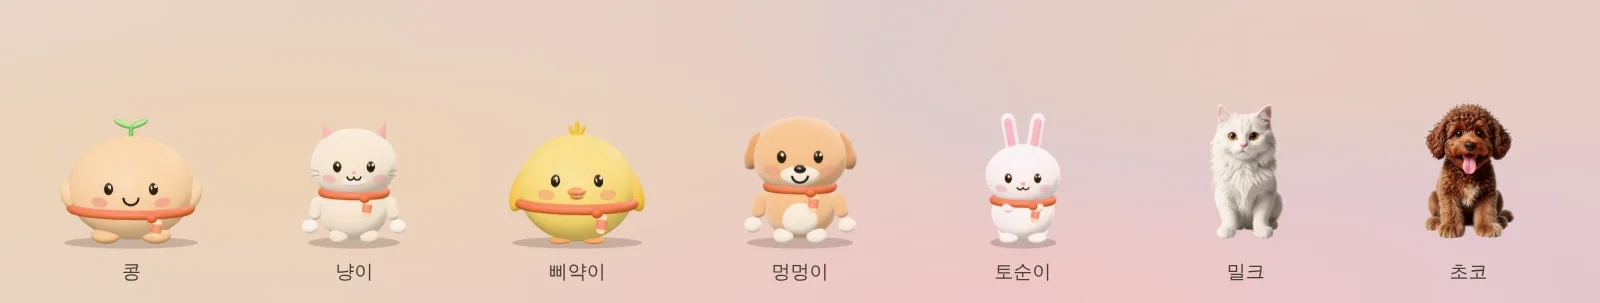
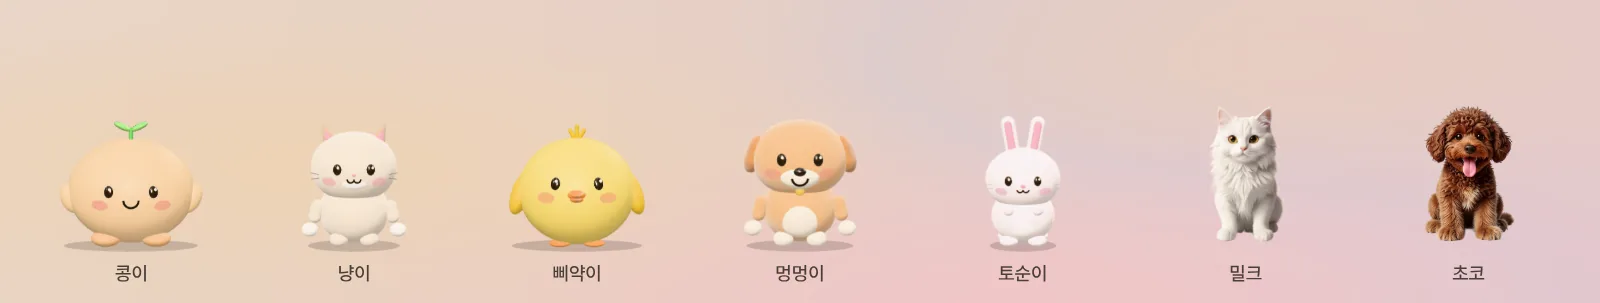
fix: 기본 페어리 고르기와 그림 이름표를 "콩이"로 맞춘다
- 앱 안 이름은 콩이(기본 이름, 메뉴, 대화)인데 모습 고르기 칸만 "콩"이었다. 다른 페어리처럼 이름 그대로
- 문서 그림 pets.png, settings-1.png, onboarding.png 를 screens.mjs 로 다시 찍었다 (이름표 콩이)
- 홈페이지 pets-*.webp(images.py 와 같은 처리), 시작 안내 모습 고르기 step-pick*.webp 를 지금 앱에서 다시 찍고
  README, 사용 안내, 홈페이지 설명 글도 콩이로. node site/tools/build.mjs

Claude-Session: https://claude.ai/code/session_01EZS11RqVcC5rA27WX3hdyu

diff --git a/site/index.html b/site/index.html
@@ -846,7 +846,7 @@ html { scroll-behavior: auto; }
           <p data-i18n="steps.s1d">내 컴퓨터에 맞는 파일을 받아 열어요. 처음 한 번만 경고를 넘기면 돼요.</p>
         </li>
         <li>
-          <div class="how-pic"><picture><source srcset="assets/img/step-pick-dark.webp" media="(prefers-color-scheme: dark)"><img src="assets/img/step-pick.webp" width="442" height="98" loading="lazy" decoding="async" alt="처음 켤 때 페어리 모습을 고르는 화면. 콩, 냥이, 삐약이, 멍멍이, 토순이, 밀크, 초코, 사진으로" data-i18n-attr="alt:steps.pickAlt"></picture></div>
+          <div class="how-pic"><picture><source srcset="assets/img/step-pick-dark.webp" media="(prefers-color-scheme: dark)"><img src="assets/img/step-pick.webp" width="442" height="98" loading="lazy" decoding="async" alt="처음 켤 때 페어리 모습을 고르는 화면. 콩이, 냥이, 삐약이, 멍멍이, 토순이, 밀크, 초코, 사진으로" data-i18n-attr="alt:steps.pickAlt"></picture></div>
           <h3 data-i18n="steps.s2t">페어리 고르기</h3>
           <p data-i18n="steps.s2d">이름을 지어 주고, 콩이나 냥이, 밀크, 초코 같은 페어리 중에서 골라요. 사진으로 직접 만들어도 좋아요.</p>
         </li>

diff --git a/src/shared/i18n/common.ts b/src/shared/i18n/common.ts
@@ -6,14 +6,14 @@ export const ko = {
   'common.ok': '확인',
   'common.cancel': '취소',
   'common.defaultPetName': '콩이',
-  // 기본 펫 모습마다의 기본 이름 (콩은 위의 defaultPetName). 이름을 손대지 않았으면 모습을 따라간다
+  // 기본 펫 모습마다의 기본 이름 (콩이는 위의 defaultPetName). 이름을 손대지 않았으면 모습을 따라간다
   'common.petName.cat': '냥이',
   'common.petName.chick': '삐약이',
   'common.petName.dog': '멍멍이',
   'common.petName.bunny': '토순이',
   /** 사진 펫을 이름 없이 만들 때 */
   'common.petName.photo': '찰칵이',
-  'common.petKind.kong': '콩',
+  'common.petKind.kong': '콩이',
   'common.petKind.cat': '냥이',
   'common.petKind.chick': '삐약이',
   'common.petKind.dog': '멍멍이',

diff --git a/site/i18n.js b/site/i18n.js
@@ -212,7 +212,7 @@ window.I18N = {
     'steps.s2d': '이름을 지어 주고, 콩이나 냥이, 밀크, 초코 같은 페어리 중에서 골라요. 사진으로 직접 만들어도 좋아요.',
     'steps.s3t': '화면에서 같이 지내기',
     'steps.s3d': '화면 아래를 걸어 다니다가, 일정이 다가오면 말풍선으로 알려 줘요.',
-    'steps.pickAlt': '처음 켤 때 페어리 모습을 고르는 화면. 콩, 냥이, 삐약이, 멍멍이, 토순이, 밀크, 초코, 사진으로',
+    'steps.pickAlt': '처음 켤 때 페어리 모습을 고르는 화면. 콩이, 냥이, 삐약이, 멍멍이, 토순이, 밀크, 초코, 사진으로',
     'news.title': '새로 생긴 것',
     'news.all': '변경 이력 전체 보기',
     'req.mac': '맥',

diff --git a/src/shared/settings.test.ts b/src/shared/settings.test.ts
@@ -156,7 +156,7 @@ test('펫 모양 이름은 지금 말로 읽는다', () => {
   } finally {
     setLang('ko');
   }
-  assert.equal(PET_KINDS[0]?.label, '콩');
+  assert.equal(PET_KINDS[0]?.label, '콩이');
 });
 
 test('AI 모델 고르기: 모양이 맞는 것만, 옵션처럼 보이는 값은 버린다', () => {

diff --git a/README.md b/README.md
@@ -18,7 +18,7 @@
 
 화면 한쪽에 강아지, 고양이 같은 작은 페어리가 살아요. 가만히 있다가 가끔 걸어 다니고, 창 위에 올라앉고, 마우스를 쳐다보고, 쓰다듬으면 하트를 띄워요. 페어리를 누르면 오늘 할 일과 일정이 담긴 패널이 열리고, 우클릭하면 AI와 대화하거나 화면을 같이 보며 물어볼 수 있어요.
 
-- **페어리**: 기본 페어리 다섯(콩, 냥이, 삐약이, 멍멍이, 토순이)과 그림 친구 둘(밀크, 초코). 반려동물이나 인형 사진 한 장으로 나만의 페어리도 만들 수 있어요.
+- **페어리**: 기본 페어리 다섯(콩이, 냥이, 삐약이, 멍멍이, 토순이)과 그림 친구 둘(밀크, 초코). 반려동물이나 인형 사진 한 장으로 나만의 페어리도 만들 수 있어요.
 - **비서**: 할 일, 메모, 일정, 집중 타이머, 하루 회고. "내일 3시 회의"처럼 한 줄로 넣으면 날짜와 시각을 알아들어요.
 - **AI**: 이 컴퓨터에 설치해 둔 Claude Code, Codex, Cursor, Gemini CLI를 불러 대화해요. 하나도 없으면 컴퓨터 안에서만 도는 무료 AI를 받아 쓸 수 있어요.
 
@@ -33,7 +33,7 @@
 ### 페어리
 
 <p align="center">
-  <img src="docs/assets/screens/pets.png" alt="기본 페어리 다섯 콩, 냥이, 삐약이, 멍멍이, 토순이와 그림 친구 밀크(흰 고양이), 초코(갈색 푸들)" width="820">
+  <img src="docs/assets/screens/pets.png" alt="기본 페어리 다섯 콩이, 냥이, 삐약이, 멍멍이, 토순이와 그림 친구 밀크(흰 고양이), 초코(갈색 푸들)" width="820">
 </p>
 
 - 드래그로 옮기고, 잡아서 휙 놓으면 던져져서 통통 튀어요. 좌우로 문지르면 쓰다듬기예요.
@@ -43,7 +43,7 @@
 - 다른 앱을 전체 화면으로 쓰거나 발표할 때는 가려지고, 단축키로 잠깐 숨길 수도 있어요.
 
 <p align="center">
-  <img src="docs/assets/screens/pet-styles.png" alt="콩을 피규어, 게임 캐릭터, 실사, 복슬복슬, 납작한 2D 로 그린 모습과, 고양이 사진으로 만든 입체 피규어" width="820">
+  <img src="docs/assets/screens/pet-styles.png" alt="콩이를 피규어, 게임 캐릭터, 실사, 복슬복슬, 납작한 2D 로 그린 모습과, 고양이 사진으로 만든 입체 피규어" width="820">
 </p>
 
 <p align="center">

diff --git a/docs/guide.md b/docs/guide.md
@@ -23,7 +23,7 @@
 
 ![시작 안내 첫 쪽(밝은 모드, 어두운 모드)과 마지막 쪽](assets/screens/onboarding.png)
 
-1. **이름과 모습**: 페어리 이름(12자까지)을 짓고 모습을 골라요. 기본 페어리 다섯(콩, 냥이, 삐약이, 멍멍이, 토순이), 그림 친구 둘(밀크, 초코), 또는 **사진으로** 직접 만들기.
+1. **이름과 모습**: 페어리 이름(12자까지)을 짓고 모습을 골라요. 기본 페어리 다섯(콩이, 냥이, 삐약이, 멍멍이, 토순이), 그림 친구 둘(밀크, 초코), 또는 **사진으로** 직접 만들기.
 2. **만나는 시간**: 일을 시작하는 요일과 시간을 정하면 그때 반갑게 맞이하며 오늘 할 일을 알려 주고, 끝날 땐 수고했다고 인사해요. 정하지 않으면 켤 때마다 인사해요.
 3. **같이 보기**: 맥은 화면 기록 권한이 필요해요. "시스템 설정 열기"를 누르고 fairy를 켠 뒤 페어리를 다시 켜요. 같이 보기를 안 쓸 거면 넘어가도 돼요. 이 쪽에서 AI 연결 상태도 같이 알려 줘요.
 4. **알아 두면 좋은 것**: 누르기, 우클릭, 문지르기, 던지기, 단축키를 한 장에 모아 뒀어요.
@@ -68,7 +68,7 @@
 
 설정 → 페어리에서 모습, 크기, 입체 모습(피규어, 게임 캐릭터, 실사, 복슬복슬), 걸음새(자동, 두 발, 네 발)를 바꿔요. "입체로 보기"를 끄면 납작한 2D 그림이에요.
 
-![콩의 입체 모습 네 가지와 2D, 사진으로 만든 입체 피규어](assets/screens/pet-styles.png)
+![콩이의 입체 모습 네 가지와 2D, 사진으로 만든 입체 피규어](assets/screens/pet-styles.png)
 
 **친구의 페어리 초대하기**에서 친구 페어리를 세 마리까지 초대해요. 같이 돌아다니고 놀지만 할 일과 대화는 기본 페어리가 맡아요.
 

diff --git a/CHANGELOG.md b/CHANGELOG.md
@@ -62,6 +62,7 @@
 - 2D 페어리가 걸을 때 디딘 발이 몸과 같이 미끄러지던 것: 디딘 발은 바닥에 머물고 든 발만 앞으로 나간다. 출발과 멈출 때 걸음이 0에서 오르고 내린다
 - 영어 화면: 할 일 줄에서 긴 제목이 칩(단계, 알림, 마감, 별)에 밀려 한 낱말씩 네 줄로 접히던 것 (칩이 다음 줄로 간다), 기억 입력칸 예시가 잘리던 것, 페어리 갤러리의 공식 페어리 이름과 만든 사람이 한국어(초코, 밀크, 페어리)로 보이던 것, 우클릭 메뉴 "What first today?" 를 "What should I do first?" 로, 앱 이름을 문장 첫머리에 대문자로 쓰던 곳
 - 시작 안내 같이 보기 단계가 리눅스에서도 "윈도우는 따로 권한이 필요 없어" 라고 하던 것 ("이 컴퓨터는 …")
+- 기본 페어리 고르기 칸에서 콩이만 "콩"으로 보이던 것 (다른 페어리처럼 이름 그대로 "콩이"). 문서와 홈페이지의 페어리 그림 이름표, 시작 안내 그림도 "콩이"로
 
 ### 바뀐 것 (2026-10-11 이름 바꾸기)
 
